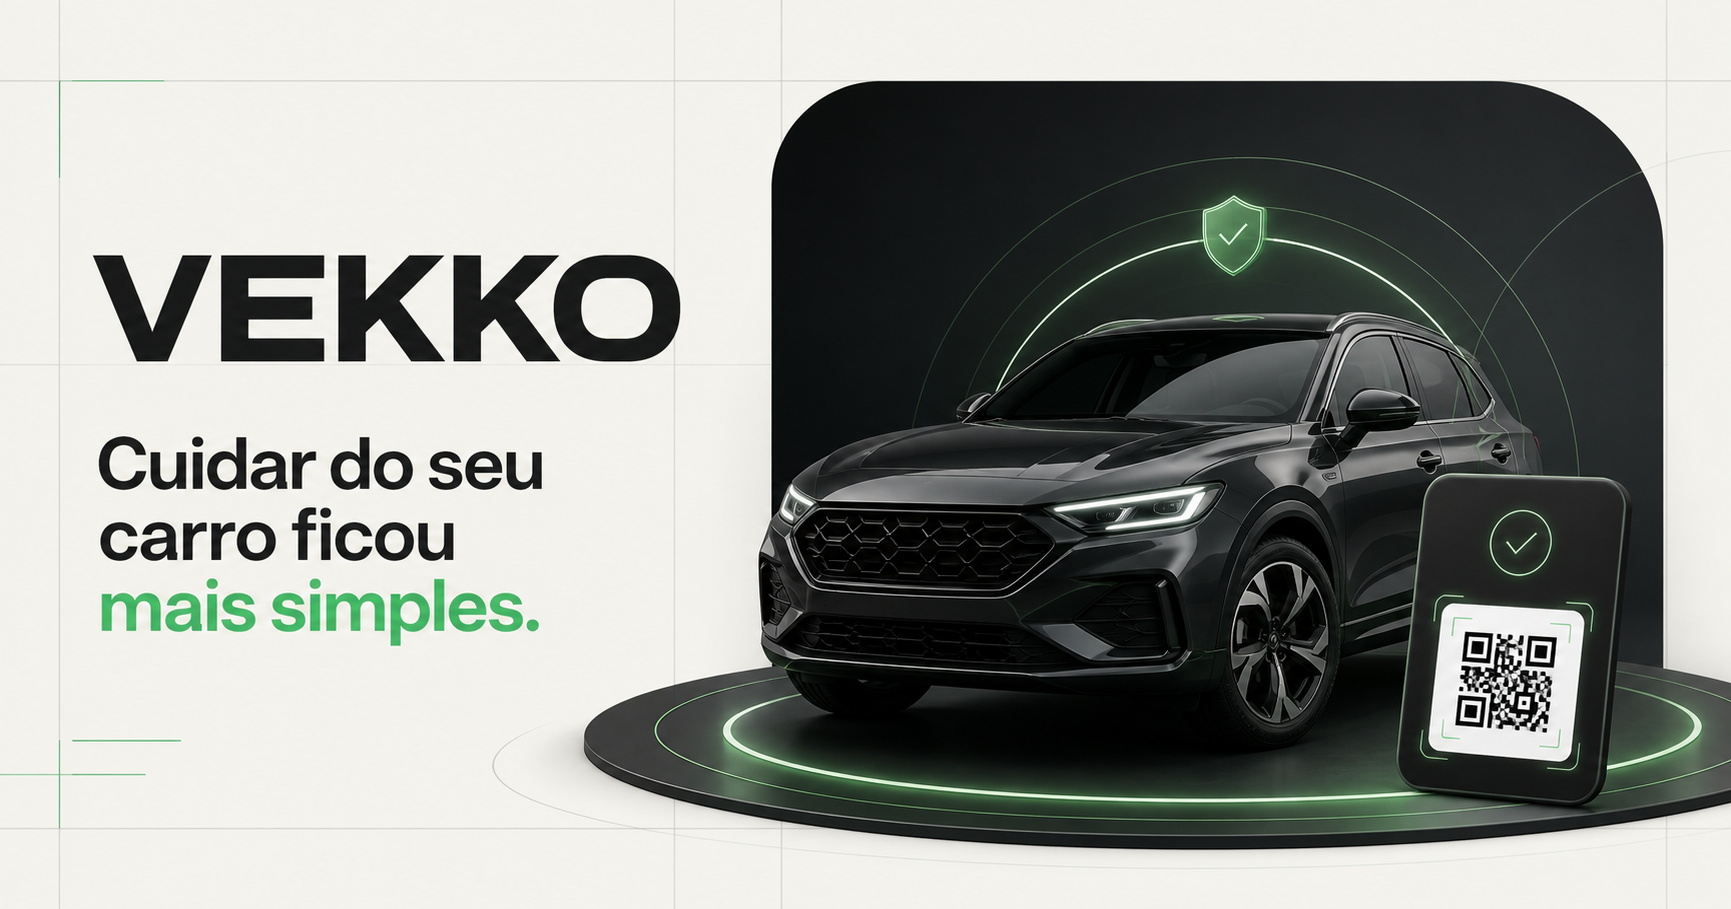
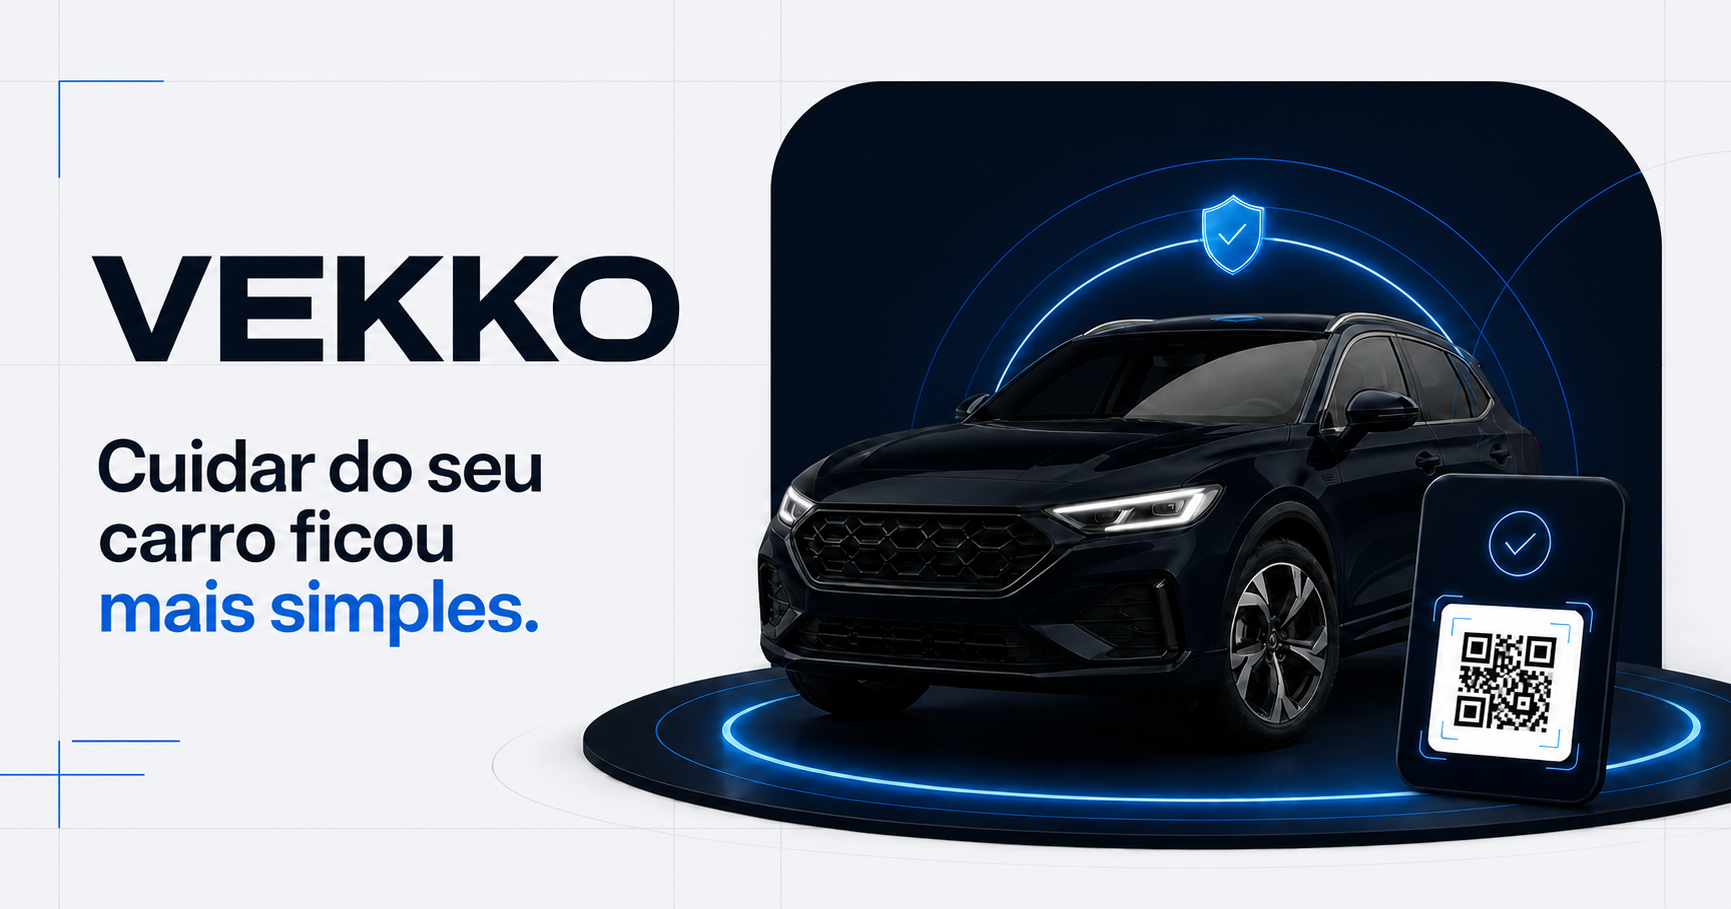
fix: aplica identidade visual oficial da VEKKO

diff --git a/app/globals.css b/app/globals.css
@@ -1,16 +1,16 @@
 @import "tailwindcss";
 
 :root {
-  --ink: #0a0a0a;
-  --ink-soft: #262825;
-  --paper: #f2f4ea;
-  --paper-deep: #e8ebdf;
-  --white: #fbfcf8;
-  --green: #4ade80;
-  --green-bright: #78f59e;
-  --green-pale: #dfffe9;
-  --line: rgba(10, 10, 10, 0.11);
-  --muted: #62675f;
+  --ink: #050b16;
+  --ink-soft: #0a1224;
+  --paper: #f4f6fa;
+  --paper-deep: #e9eef6;
+  --white: #ffffff;
+  --green: #0066ff;
+  --green-bright: #00b2ff;
+  --green-pale: #dcecff;
+  --line: rgba(10, 18, 36, 0.12);
+  --muted: #526078;
   --radius: 28px;
   --shell: 1180px;
 }
@@ -26,7 +26,7 @@ html {
 body {
   background: var(--paper);
   color: var(--ink);
-  font-family: var(--font-geist-sans), Arial, Helvetica, sans-serif;
+  font-family: var(--font-sora), Arial, Helvetica, sans-serif;
   margin: 0;
   min-width: 320px;
   overflow-x: hidden;
@@ -85,9 +85,9 @@ canvas {
   align-items: center;
   display: inline-flex;
   font-size: 1.08rem;
-  font-weight: 760;
-  gap: 10px;
-  letter-spacing: -0.04em;
+  font-weight: 520;
+  gap: 12px;
+  letter-spacing: 0.12em;
   width: fit-content;
 }
 
@@ -152,7 +152,7 @@ canvas {
   background: var(--white);
   border: 1px solid var(--line);
   border-radius: 18px;
-  box-shadow: 0 18px 50px rgba(10, 10, 10, 0.13);
+  box-shadow: 0 18px 50px rgba(5, 11, 22, 0.13);
   display: grid;
   gap: 4px;
   padding: 12px;
@@ -283,7 +283,7 @@ summary:focus-visible {
 .status-dot {
   background: var(--green);
   border-radius: 50%;
-  box-shadow: 0 0 0 5px rgba(74, 222, 128, 0.17);
+  box-shadow: 0 0 0 5px rgba(0, 102, 255, 0.17);
   height: 8px;
   width: 8px;
 }
@@ -308,7 +308,7 @@ summary:focus-visible {
 }
 
 .hero h1 em {
-  color: #229f50;
+  color: #0066ff;
   display: block;
   font-style: normal;
 }
@@ -371,11 +371,11 @@ summary:focus-visible {
 
 .hero-visual {
   background:
-    radial-gradient(circle at 50% 40%, rgba(74, 222, 128, 0.42), transparent 43%),
+    radial-gradient(circle at 50% 40%, rgba(0, 178, 255, 0.4), transparent 43%),
     var(--ink);
   border: 1px solid rgba(255, 255, 255, 0.1);
   border-radius: 34px;
-  box-shadow: 0 32px 80px rgba(10, 10, 10, 0.2);
+  box-shadow: 0 32px 80px rgba(5, 11, 22, 0.22);
   height: min(670px, 74vh);
   min-height: 560px;
   overflow: hidden;
@@ -402,12 +402,12 @@ summary:focus-visible {
 }
 
 .vekko-scene-loading {
-  background: radial-gradient(circle at center, rgba(74, 222, 128, 0.2), transparent 58%);
+  background: radial-gradient(circle at center, rgba(0, 178, 255, 0.2), transparent 58%);
 }
 
 .phone-card {
   backdrop-filter: blur(16px);
-  background: rgba(251, 252, 248, 0.91);
+  background: rgba(255, 255, 255, 0.92);
   border: 1px solid rgba(255, 255, 255, 0.5);
   border-radius: 27px;
   bottom: 24px;
@@ -453,7 +453,7 @@ summary:focus-visible {
 }
 
 .vehicle-chip {
-  background: #ecefe8;
+  background: #e9eef6;
   border-radius: 12px;
   display: grid;
   gap: 3px;
@@ -482,7 +482,7 @@ summary:focus-visible {
 
 .phone-plan span,
 .phone-plan small {
-  color: #b4b9b1;
+  color: #afbdd2;
 }
 
 .phone-plan strong {
@@ -492,7 +492,7 @@ summary:focus-visible {
 }
 
 .phone-progress {
-  background: #343934;
+  background: #17243b;
   border-radius: 999px;
   height: 5px;
   margin-top: 11px;
@@ -639,7 +639,7 @@ summary:focus-visible {
 }
 
 .step-card > span {
-  color: #279c51;
+  color: #0066ff;
   font-family: var(--font-geist-mono), monospace;
   font-size: 0.75rem;
   font-weight: 650;
@@ -711,7 +711,7 @@ summary:focus-visible {
 }
 
 .benefit-dark p {
-  color: #adb2aa !important;
+  color: #afbdd2 !important;
 }
 
 .benefit-green {
@@ -719,11 +719,11 @@ summary:focus-visible {
 }
 
 .benefit-green p {
-  color: #183c24 !important;
+  color: #e5f6ff !important;
 }
 
 .benefit-network {
-  background-image: radial-gradient(rgba(10, 10, 10, 0.14) 1.2px, transparent 1.2px);
+  background-image: radial-gradient(rgba(5, 11, 22, 0.14) 1.2px, transparent 1.2px);
   background-size: 18px 18px;
 }
 
@@ -846,7 +846,7 @@ summary:focus-visible {
 
 .plan-featured .plan-price span,
 .plan-featured > p {
-  color: #abb0aa;
+  color: #afbdd2;
 }
 
 .plan-card > p {
@@ -898,7 +898,7 @@ summary:focus-visible {
 }
 
 .plan-featured .plan-eligibility span {
-  color: #9da39b;
+  color: #9eb0c9;
 }
 
 .plan-eligibility strong {
@@ -951,13 +951,13 @@ summary:focus-visible {
 }
 
 .network-grid > div > p {
-  color: #afb4ad;
+  color: #afbdd2;
   margin: 28px 0 34px;
   max-width: 560px;
 }
 
 .map-card {
-  background-color: #171a17;
+  background-color: #0a1224;
   background-image:
     linear-gradient(rgba(255, 255, 255, 0.045) 1px, transparent 1px),
     linear-gradient(90deg, rgba(255, 255, 255, 0.045) 1px, transparent 1px);
@@ -970,7 +970,7 @@ summary:focus-visible {
 }
 
 .map-card::before {
-  background: radial-gradient(circle, rgba(74, 222, 128, 0.3), transparent 64%);
+  background: radial-gradient(circle, rgba(0, 178, 255, 0.32), transparent 64%);
   content: "";
   height: 420px;
   left: 50%;
@@ -1021,10 +1021,10 @@ summary:focus-visible {
 
 .map-pin i {
   background: var(--green);
-  border: 8px solid rgba(74, 222, 128, 0.18);
+  border: 8px solid rgba(0, 178, 255, 0.18);
   background-clip: padding-box;
   border-radius: 50%;
-  box-shadow: 0 0 0 12px rgba(74, 222, 128, 0.08);
+  box-shadow: 0 0 0 12px rgba(0, 178, 255, 0.08);
   height: 34px;
   width: 34px;
 }
@@ -1044,7 +1044,7 @@ summary:focus-visible {
 }
 
 .map-caption span {
-  color: #9ca29b;
+  color: #9eb0c9;
   font-size: 0.65rem;
 }
 
@@ -1083,7 +1083,7 @@ summary:focus-visible {
 }
 
 .partner-mini-steps b {
-  color: #279c51;
+  color: #0066ff;
   font-family: var(--font-geist-mono), monospace;
   font-size: 0.65rem;
   margin-right: 20px;
@@ -1182,8 +1182,8 @@ summary:focus-visible {
   background: var(--ink);
   border-radius: 50%;
   box-shadow:
-    0 0 0 18px rgba(74, 222, 128, 0.23),
-    0 0 0 46px rgba(74, 222, 128, 0.11);
+    0 0 0 18px rgba(0, 178, 255, 0.23),
+    0 0 0 46px rgba(0, 102, 255, 0.11);
   color: var(--white);
   display: flex;
   font-size: 2rem;
@@ -1224,7 +1224,7 @@ summary:focus-visible {
 }
 
 .footer-grid > div:first-child p {
-  color: #9fa49e;
+  color: #9eb0c9;
   font-size: 0.85rem;
   line-height: 1.6;
   margin: 20px 0 0;
@@ -1244,7 +1244,7 @@ summary:focus-visible {
 
 .footer-grid a,
 .footer-grid span {
-  color: #9fa49e;
+  color: #9eb0c9;
   font-size: 0.75rem;
   line-height: 1.45;
 }
@@ -1287,7 +1287,7 @@ summary:focus-visible {
 }
 
 .partner-hero h1 em {
-  color: #249d50;
+  color: #0066ff;
   display: block;
   font-style: normal;
 }
@@ -1323,7 +1323,7 @@ summary:focus-visible {
 }
 
 .partner-info-card span {
-  color: #249d50;
+  color: #0066ff;
   font-family: var(--font-geist-mono), monospace;
   font-size: 0.7rem;
 }
@@ -1349,7 +1349,7 @@ summary:focus-visible {
 }
 
 .partner-process .section-heading > p {
-  color: #a7aca5;
+  color: #afbdd2;
 }
 
 .partner-process .step-card {
@@ -1361,7 +1361,7 @@ summary:focus-visible {
 }
 
 .partner-process .step-card p {
-  color: #a7aca5;
+  color: #afbdd2;
 }
 
 .partner-signup-grid,
@@ -1397,7 +1397,7 @@ summary:focus-visible {
   align-items: center;
   background: var(--green-pale);
   border-radius: 50%;
-  color: #207a40;
+  color: #0066ff;
   content: "✓";
   display: inline-flex;
   flex: 0 0 auto;

diff --git a/app/components/VekkoScene.tsx b/app/components/VekkoScene.tsx
@@ -32,7 +32,7 @@ export function VekkoScene() {
     const bodyMaterial = new THREE.MeshPhysicalMaterial({
       clearcoat: 1,
       clearcoatRoughness: 0.12,
-      color: 0x111312,
+      color: 0x0a1224,
       metalness: 0.82,
       roughness: 0.22,
     });
@@ -43,7 +43,7 @@ export function VekkoScene() {
 
     const canopyGeometry = new THREE.SphereGeometry(0.72, 40, 24);
     const canopyMaterial = new THREE.MeshPhysicalMaterial({
-      color: 0xdfffe9,
+      color: 0xe5f6ff,
       metalness: 0.1,
       opacity: 0.82,
       roughness: 0.05,
@@ -57,7 +57,7 @@ export function VekkoScene() {
 
     const wheelGeometry = new THREE.TorusGeometry(0.3, 0.115, 18, 42);
     const wheelMaterial = new THREE.MeshStandardMaterial({
-      color: 0x050605,
+      color: 0x050b16,
       metalness: 0.65,
       roughness: 0.32,
     });
@@ -68,7 +68,7 @@ export function VekkoScene() {
     });
 
     const haloMaterial = new THREE.MeshBasicMaterial({
-      color: 0x4ade80,
+      color: 0x0066ff,
       opacity: 0.72,
       transparent: true,
     });
@@ -95,7 +95,7 @@ export function VekkoScene() {
       new THREE.BufferAttribute(pointPositions, 3),
     );
     const pointMaterial = new THREE.PointsMaterial({
-      color: 0xb8ffcf,
+      color: 0x9fe4ff,
       opacity: 0.68,
       size: 0.035,
       transparent: true,
@@ -107,9 +107,9 @@ export function VekkoScene() {
     const keyLight = new THREE.DirectionalLight(0xffffff, 3.8);
     keyLight.position.set(3, 4, 5);
     scene.add(keyLight);
-    const greenLight = new THREE.PointLight(0x4ade80, 22, 10);
-    greenLight.position.set(-2.5, 1.2, 2.5);
-    scene.add(greenLight);
+    const cyanLight = new THREE.PointLight(0x00b2ff, 22, 10);
+    cyanLight.position.set(-2.5, 1.2, 2.5);
+    scene.add(cyanLight);
 
     const resize = () => {
       const width = mount.clientWidth;

diff --git a/app/layout.tsx b/app/layout.tsx
@@ -1,10 +1,10 @@
 import type { Metadata } from "next";
-import { Geist, Geist_Mono } from "next/font/google";
+import { Geist_Mono, Sora } from "next/font/google";
 import { headers } from "next/headers";
 import "./globals.css";
 
-const geistSans = Geist({
-  variable: "--font-geist-sans",
+const sora = Sora({
+  variable: "--font-sora",
   subsets: ["latin"],
 });
 
@@ -65,7 +65,7 @@ export default function RootLayout({
 }>) {
   return (
     <html lang="pt-BR">
-      <body className={`${geistSans.variable} ${geistMono.variable}`}>
+      <body className={`${sora.variable} ${geistMono.variable}`}>
         {children}
       </body>
     </html>
